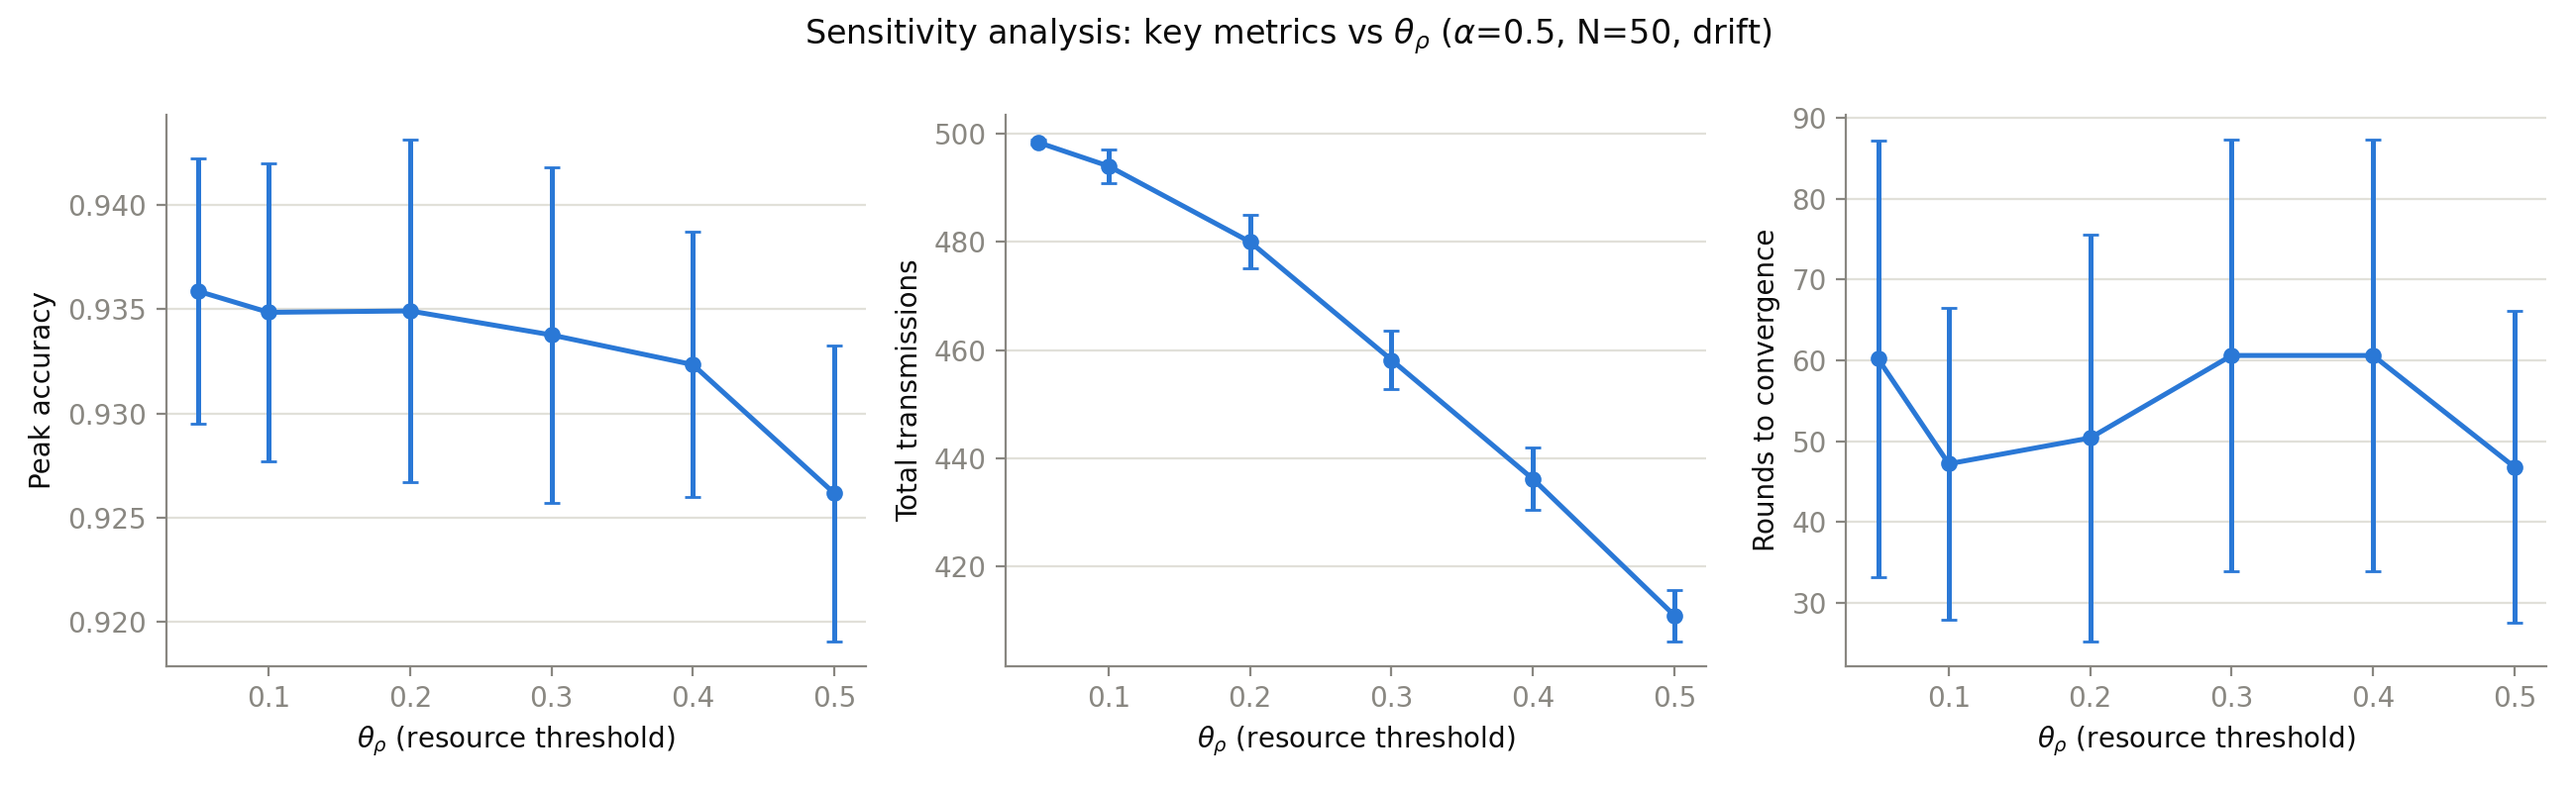
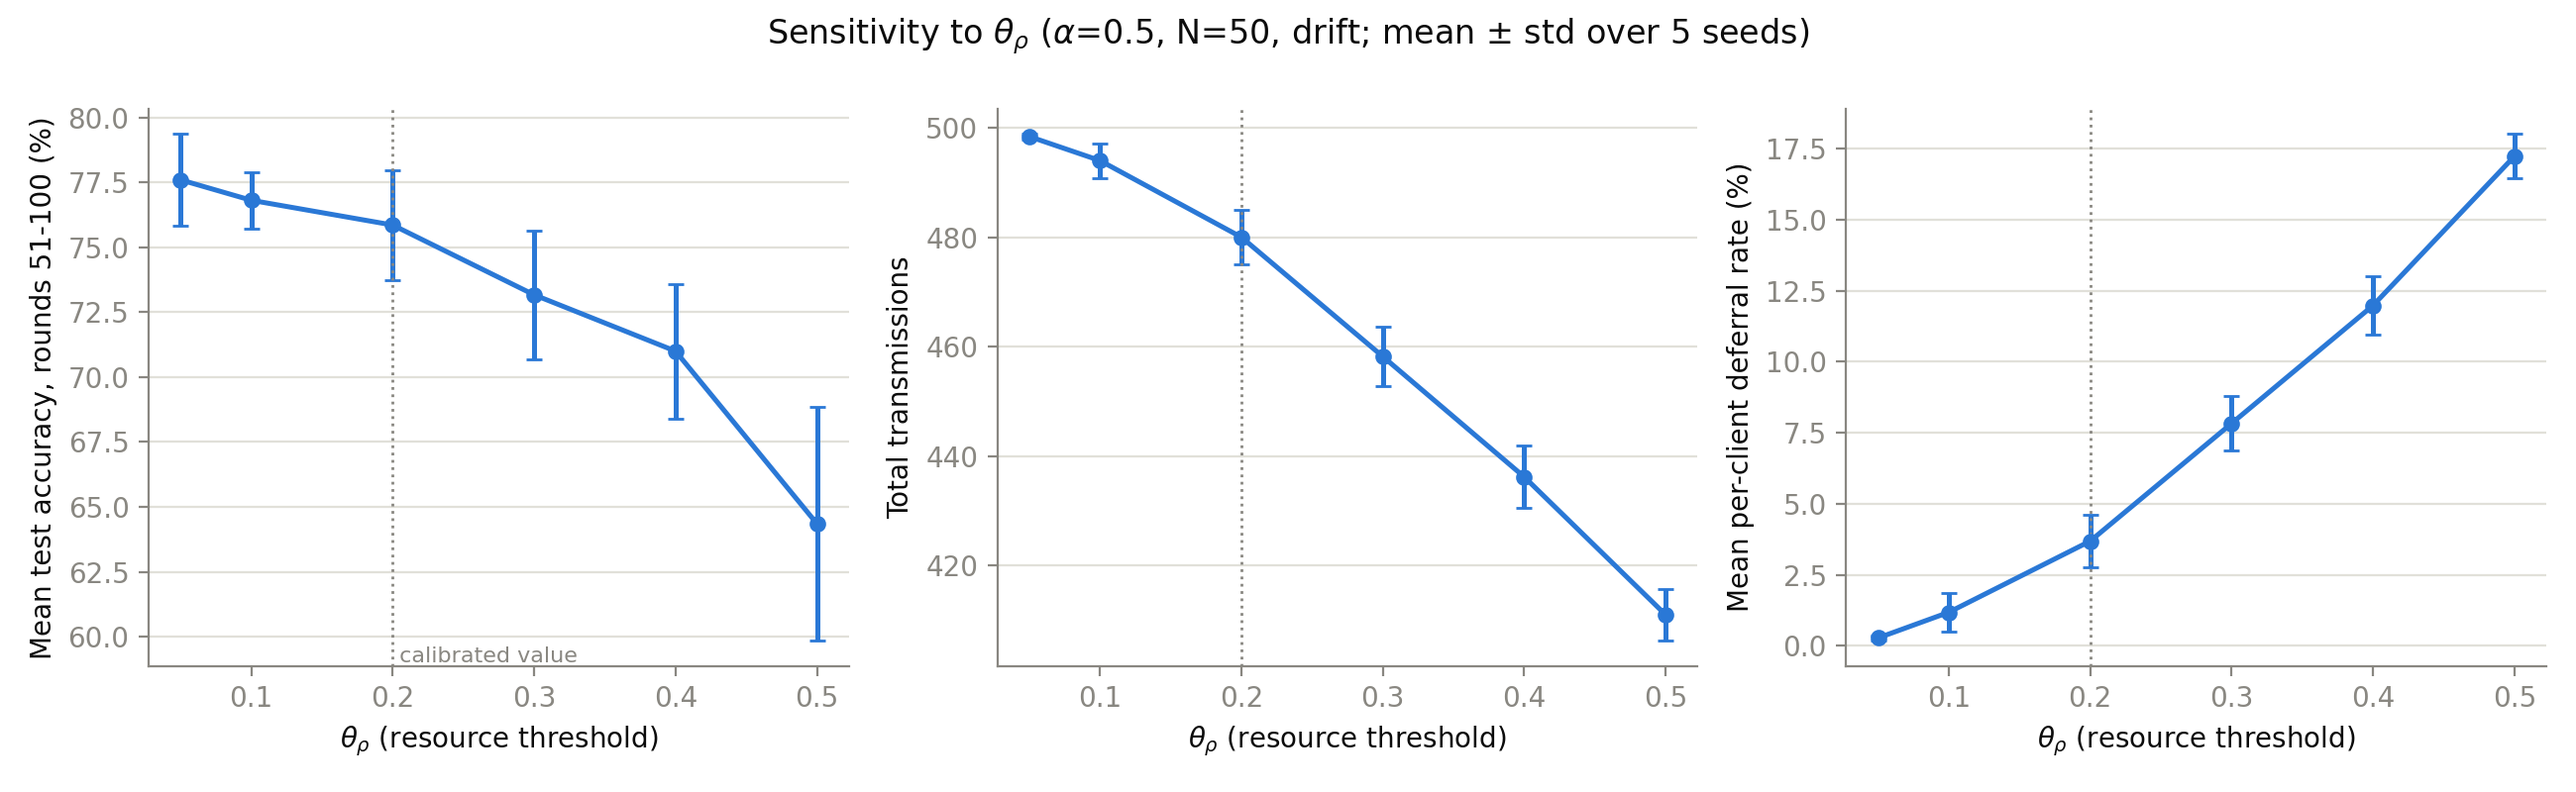
Reproduce thesis Figure 4.9 and Table 4.9 from the repo
- metrics: add rounds_to_98pct_peak (first round reaching 98% of peak,
  the closest reading of H2's "within 2% of peak")
- thesis_outputs: add table5_11_h2_convergence (H2 paired tests at
  alpha=0.1, N=50 vs FedAvg and FedProx, both convergence measures)
- plots: fig5_6 now shows post-drift accuracy, transmissions and
  deferral rate vs theta_rho, with the calibrated value marked

diff --git a/analysis/thesis_outputs.py b/analysis/thesis_outputs.py
@@ -19,6 +19,9 @@ Writes, into --out (default tables/):
   table5_9_validity.csv        run counts, validity and provenance
   table5_10_replicate_noise.csv identical-configuration replicates (main run,
                                rafa_full ablation, theta_rho=0.20 sweep run)
+  table5_11_h2_convergence.csv H2 test at alpha=0.1, N=50: rounds to 95% of peak
+                               (sustained) and rounds to 98% of peak, RAFA-FL vs
+                               FedAvg and FedProx
   thesis_tables.md             all of the above, formatted for reading
 
 Usage:
@@ -317,6 +320,39 @@ def table_replicates(results_dir):
     return header, rows, _md_table(header, md)
 
 
+def table_h2(runs, alpha=0.1, n=None):
+    """
+    H2 test: rounds to convergence for RAFA-FL vs FedAvg and FedProx at
+    alpha=0.1, N=50, with and without drift. Two operationalisations: the
+    sustained 95%-of-peak criterion and the first round reaching 98% of peak.
+    Plain paired t-test per comparison (as reported in the thesis table).
+    """
+    from scipy import stats
+    n = n or N0
+    g = group_by(runs, ["method", "alpha", "num_clients", "drift"])
+    measures = [("rounds_to_convergence", "Rounds to 95% (sustained)"),
+                ("rounds_to_98pct_peak", "Rounds to 98% of peak")]
+    header = ["measure", "drift", "rafa_mean", "baseline", "baseline_mean", "t", "p"]
+    rows, md = [], []
+    for key, label in measures:
+        for d in [False, True]:
+            rafa = {r["seed"]: r["_summary"][key] for r in g.get(("rafa_fl", alpha, n, d), [])}
+            for b in ["fedavg", "fedprox"]:
+                base = {r["seed"]: r["_summary"][key] for r in g.get((b, alpha, n, d), [])}
+                seeds = sorted(set(rafa) & set(base))
+                x = np.array([rafa[s] for s in seeds], dtype=float)
+                y = np.array([base[s] for s in seeds], dtype=float)
+                if len(seeds) < 2 or np.all(x - y == 0):
+                    t, p = float("nan"), float("nan")
+                else:
+                    t, p = stats.ttest_rel(x, y)
+                rows.append([key, d, x.mean(), b, y.mean(), t, p])
+                md.append([label, "drift" if d else "no drift", f"{x.mean():.1f}", LABEL[b],
+                           f"{y.mean():.1f}", f"{t:.2f}", f"{p:.3f}"])
+    return header, rows, _md_table(["Measure", "Condition", "RAFA-FL", "Baseline", "Baseline mean",
+                                    "t", "p"], md)
+
+
 # ---------------------------------------------------------------------------
 def main():
     ap = argparse.ArgumentParser()
@@ -347,6 +383,8 @@ def main():
         ("table5_9_validity", "Table 5.9 — Run validity and provenance", table_validity(all_runs)),
         ("table5_10_replicate_noise", "Table 5.10 — Identical-configuration replicates "
                                       "(run-to-run noise floor)", table_replicates(args.results_dir)),
+        ("table5_11_h2_convergence", f"Table 5.11 — H2: rounds to convergence at α=0.1, N={N0}, "
+                                     f"RAFA-FL vs FedAvg and FedProx (paired t-test)", table_h2(runs)),
     ]
     md = ["# Chapter 5 tables", "",
           f"Generated by `python -m analysis.thesis_outputs` from `{args.results_dir}` "

diff --git a/analysis/plots.py b/analysis/plots.py
@@ -7,7 +7,7 @@ Figures:
   5.3 Per-client deferral rate distribution (primary condition, RAFA-FL)
   5.4 Ablation study accuracy over rounds -- full agent vs ablated variants
   5.5 Scalability: transmissions vs N in {10, 50, 100}
-  5.6 Sensitivity analysis: key metrics vs theta_rho
+  5.6 Sensitivity to theta_rho: post-drift accuracy, transmissions, deferral rate
   5.7 Mean accuracy after round 50 by alpha, drift vs no drift (N=50)
   5.8 RAFA-FL decision-rule mix before/after drift, drifted vs unaffected clients
 
@@ -271,26 +271,32 @@ def fig_5_6_sensitivity(sensitivity_dir, out_path):
         print(f"[5.6] SKIPPED -- no theta_rho grouping found in {sensitivity_dir}")
         return
 
+    # (summary key, y label, scale): accuracy and deferral rate shown in percent.
     metrics = [
-        ("peak_accuracy", "Peak accuracy"),
-        ("total_transmissions", "Total transmissions"),
-        ("rounds_to_convergence", "Rounds to convergence"),
+        ("post_drift_mean_accuracy", "Mean test accuracy, rounds 51-100 (%)", 100.0),
+        ("total_transmissions", "Total transmissions", 1.0),
+        ("deferral_rate_mean", "Mean per-client deferral rate (%)", 100.0),
     ]
+    calibrated = 0.20
     fig, axes = plt.subplots(1, len(metrics), figsize=(13, 4))
-    for ax, (key, ylabel) in zip(axes, metrics):
+    for ax, (key, ylabel, scale) in zip(axes, metrics):
         means, stds = [], []
         for theta in thetas:
             group = groups[(theta,)]
-            vals = [g["_summary"][key] for g in group if g["_summary"].get(key) is not None]
+            vals = [scale * g["_summary"][key] for g in group if g["_summary"].get(key) is not None]
             means.append(np.mean(vals) if vals else np.nan)
             stds.append(np.std(vals) if vals else 0.0)
         ax.errorbar(thetas, means, yerr=stds,
                    marker="o", markersize=5, color=COLORS["rafa_fl"], linewidth=1.8, capsize=3)
+        ax.axvline(calibrated, color=MUTED, linestyle=":", linewidth=1)
         ax.set_xlabel("$\\theta_\\rho$ (resource threshold)")
         ax.set_ylabel(ylabel)
         _style_axes(ax)
-    fig.suptitle(f"Sensitivity analysis: key metrics vs $\\theta_\\rho$ "
-                f"($\\alpha$={EXPERIMENT.primary_alpha}, N={EXPERIMENT.primary_n}, drift)", color=INK)
+    axes[0].text(calibrated, axes[0].get_ylim()[0], " calibrated value",
+                 color=MUTED, fontsize=8, va="bottom")
+    fig.suptitle(f"Sensitivity to $\\theta_\\rho$ "
+                f"($\\alpha$={EXPERIMENT.primary_alpha}, N={EXPERIMENT.primary_n}, drift; "
+                f"mean ± std over 5 seeds)", color=INK)
     _savefig(fig, out_path)
 
 

diff --git a/analysis/metrics.py b/analysis/metrics.py
@@ -23,6 +23,18 @@ def rounds_to_convergence(accuracy_curve, peak_fraction=0.95, sustain=5):
     return len(acc)
 
 
+def rounds_to_fraction_of_peak(accuracy_curve, fraction=0.98):
+    """
+    First round (1-indexed) at which accuracy reaches `fraction` * peak, with
+    no sustain requirement. With fraction=0.98 this is the closest reading of
+    H2's "converge to within 2% of peak accuracy".
+    """
+    acc = np.asarray(accuracy_curve, dtype=np.float64)
+    if len(acc) == 0:
+        return None
+    return int(np.argmax(acc >= fraction * acc.max())) + 1
+
+
 def bytes_communicated(total_transmissions, param_count, dtype_bytes=4):
     """Bytes proxy = transmissions * parameter count * bytes-per-float."""
     return total_transmissions * param_count * dtype_bytes
@@ -85,6 +97,7 @@ def summarise_run(accuracy_curve, f1_curve, total_transmissions, param_count,
         "final_accuracy": float(acc[-1]) if len(acc) else None,
         "final_macro_f1": float(f1_curve[-1]) if len(f1_curve) else None,
         "rounds_to_convergence": rounds_to_convergence(acc),
+        "rounds_to_98pct_peak": rounds_to_fraction_of_peak(acc, 0.98),
         "total_transmissions": int(total_transmissions),
         "bytes_communicated": bytes_communicated(total_transmissions, param_count),
         "convergence_speed": convergence_speed(acc),

diff --git a/tables/thesis_tables.md b/tables/thesis_tables.md
@@ -290,3 +290,16 @@ Metric definitions: *peak acc* = best single round; *final-10 acc* = mean of rou
 | 456 | 0.944 | 0.942 | 0.9437 | 0.002 | 0.7327 | 0.7647 | 0.7724 | 0.0398 |
 | 789 | 0.9315 | 0.9311 | 0.9264 | 0.0051 | 0.7287 | 0.7285 | 0.7252 | 0.0035 |
 | 1024 | 0.9325 | 0.9328 | 0.9318 | 0.001 | 0.7854 | 0.7835 | 0.7854 | 0.0019 |
+
+## Table 5.11 — H2: rounds to convergence at α=0.1, N=50, RAFA-FL vs FedAvg and FedProx (paired t-test)
+
+| Measure | Condition | RAFA-FL | Baseline | Baseline mean | t | p |
+|---|---|---|---|---|---|---|
+| Rounds to 95% (sustained) | no drift | 77.8 | FedAvg | 83.8 | -0.82 | 0.459 |
+| Rounds to 95% (sustained) | no drift | 77.8 | FedProx | 76.2 | 0.20 | 0.853 |
+| Rounds to 95% (sustained) | drift | 88.8 | FedAvg | 100.0 | -1.00 | 0.374 |
+| Rounds to 95% (sustained) | drift | 88.8 | FedProx | 100.0 | -1.00 | 0.374 |
+| Rounds to 98% of peak | no drift | 59.0 | FedAvg | 63.2 | -1.35 | 0.248 |
+| Rounds to 98% of peak | no drift | 59.0 | FedProx | 60.8 | -1.62 | 0.181 |
+| Rounds to 98% of peak | drift | 39.8 | FedAvg | 48.6 | -2.26 | 0.087 |
+| Rounds to 98% of peak | drift | 39.8 | FedProx | 48.6 | -2.26 | 0.087 |
